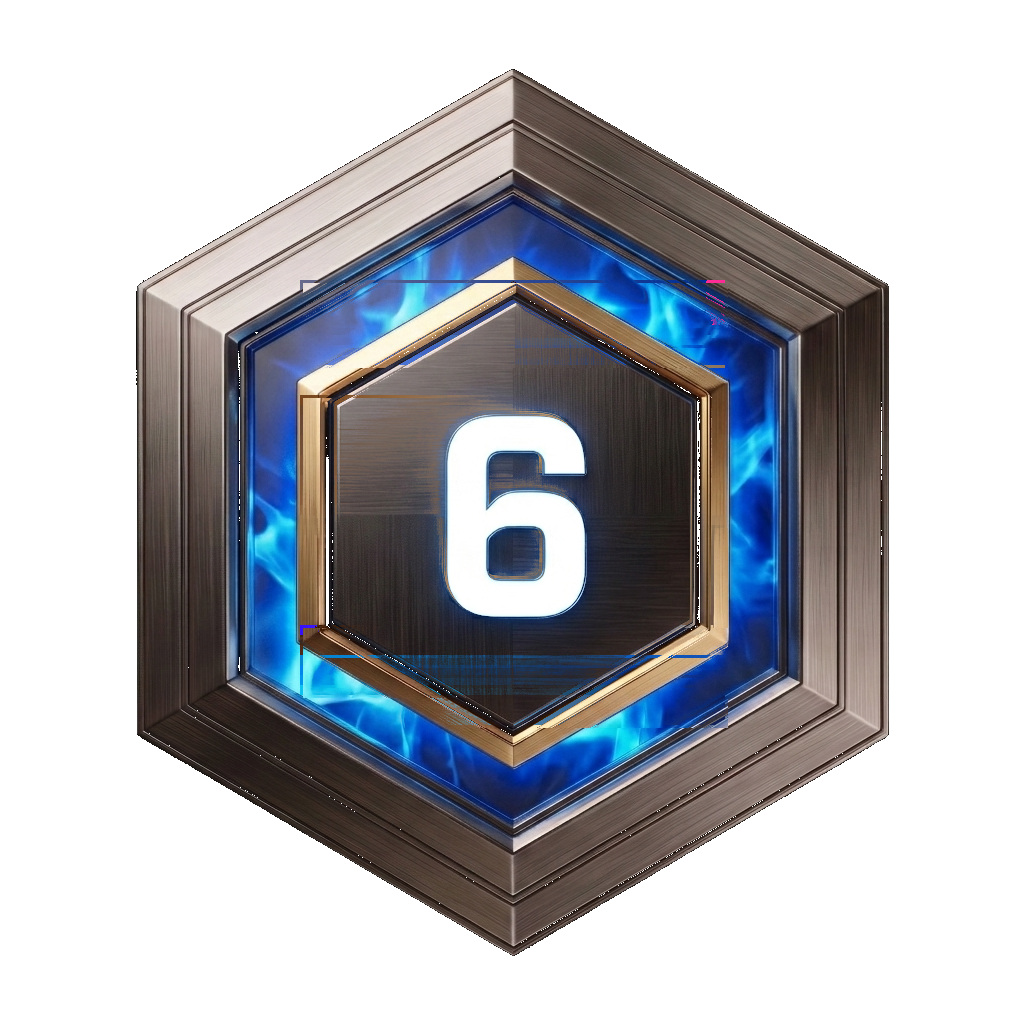
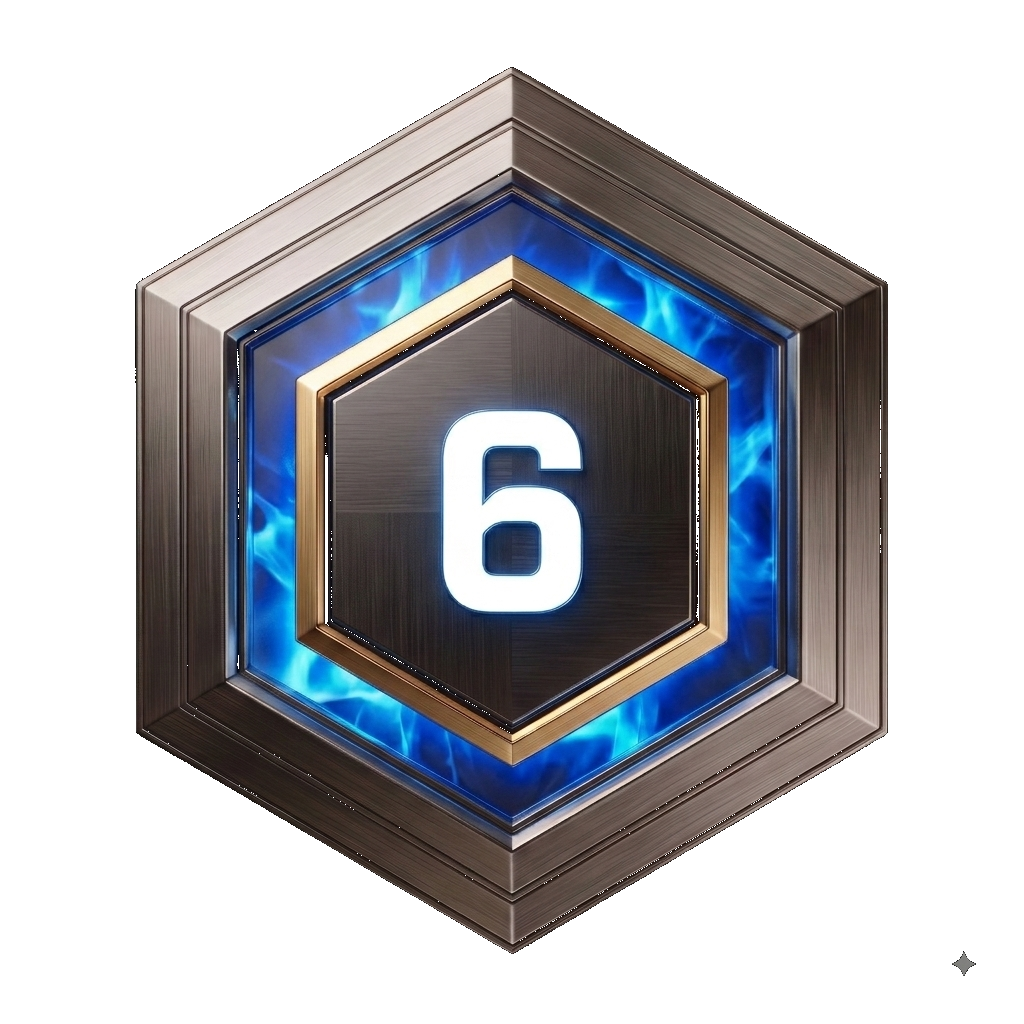
v2.5.45 : Restored exact original 3D Solar Fire Wisps particle engine and badges from fc_demo.html

diff --git a/main.js b/main.js
@@ -198,7 +198,7 @@ window.getFurnaceIconHtml = (level, size = 48) => {
      const canvasOffset = Math.round((canvasSize - size) / 2);
      return `<span class="fc-badge-stage" data-fc="${fcNum}" style="display:inline-flex; align-items:center; justify-content:center; position:relative; vertical-align:middle; cursor:pointer; width:${size}px; height:${size}px; user-select:none; -webkit-user-select:none;">
        <canvas class="fc-flame-canvas" width="${canvasSize}" height="${canvasSize}" style="position:absolute; top:-${canvasOffset}px; left:-${canvasOffset}px; width:${canvasSize}px; height:${canvasSize}px; pointer-events:none; z-index:3;"></canvas>
-       <img src="./badges/fc${fcNum}.png?v=2.5.43" onerror="this.onerror=null; this.src='/badges/fc${fcNum}.png?v=2.5.43';" alt="Fire Crystal ${fcNum}" title="Fire Crystal ${fcNum} (FC ${fcNum})" style="width:${size}px; height:${size}px; object-fit:contain; filter:drop-shadow(0 0 ${Math.max(6, Math.round(size/3.5))}px ${glow}); vertical-align:middle; transition:transform 0.25s cubic-bezier(0.175, 0.885, 0.32, 1.275); position:relative; z-index:2;" loading="lazy">
+       <img src="./badges/fc${fcNum}.png?v=2.5.45" onerror="this.onerror=null; this.src='/badges/fc${fcNum}.png?v=2.5.45';" alt="Fire Crystal ${fcNum}" title="Fire Crystal ${fcNum} (FC ${fcNum})" style="width:${size}px; height:${size}px; object-fit:contain; filter:drop-shadow(0 0 ${Math.max(6, Math.round(size/3.5))}px ${glow}); vertical-align:middle; transition:transform 0.25s cubic-bezier(0.175, 0.885, 0.32, 1.275); position:relative; z-index:2;" loading="lazy">
      </span>`;
   }
 
@@ -21370,51 +21370,49 @@ window.closeMobileNavModal = () => {
   };
 
   class FlameWisp {
-    constructor(cx, cy, radius, colors) {
-      // Spawn evenly along the perimeter of the crystal shield
-      const angle = Math.random() * Math.PI * 2;
-      const dist = (radius * 0.68) + (Math.random() * radius * 0.12);
-      this.x = cx + Math.cos(angle) * dist;
-      this.y = cy + Math.sin(angle) * dist;
+    constructor(cx, cy, w, h, colors) {
+      const scale = w / 280;
+      this.x = cx + (Math.random() - 0.5) * 100 * scale;
+      this.y = cy + (Math.random() - 0.5) * 50 * scale + (30 * scale);
+      this.vx = (Math.random() - 0.5) * 1.6 * scale;
+      this.vy = (-Math.random() * 3.2 - 1.4) * scale;
       
-      // Radial outward momentum in all 360 degrees
-      const speed = (radius * 0.016) * (0.7 + Math.random() * 0.6);
-      this.vx = Math.cos(angle) * speed;
-      this.vy = Math.sin(angle) * speed;
+      this.size = (Math.random() * 11 + 5) * scale;
+      this.alpha = 1.0;
+      this.decay = Math.random() * 0.025 + 0.012;
+      this.waveSpeed = Math.random() * 0.1 + 0.05;
+      this.waveAngle = Math.random() * Math.PI * 2;
       
-      this.size = Math.random() * (radius * 0.07) + (radius * 0.035);
-      this.maxSize = this.size * 1.5;
-      this.alpha = 0.95;
-      this.decay = Math.random() * 0.022 + 0.012;
       this.colors = colors;
     }
 
     update() {
-      this.x += this.vx;
+      this.waveAngle += this.waveSpeed;
+      this.x += this.vx + Math.sin(this.waveAngle) * 0.7;
       this.y += this.vy;
-      this.size = Math.min(this.maxSize, this.size * 1.02);
+      this.size *= 0.96;
       this.alpha -= this.decay;
     }
 
     draw(ctx) {
-      if (this.alpha <= 0 || this.size <= 0.5) return;
+      if (this.alpha <= 0 || this.size <= 1) return;
+
       ctx.save();
-      ctx.globalCompositeOperation = 'lighter';
       ctx.globalAlpha = Math.max(0, this.alpha);
       
-      // Outer radiant glow
       ctx.beginPath();
-      ctx.shadowBlur = 10;
+      ctx.shadowBlur = 12;
       ctx.shadowColor = this.colors.glow;
+      
       ctx.fillStyle = this.colors.outer;
-      ctx.arc(this.x, this.y, this.size, 0, Math.PI * 2);
+      ctx.ellipse(this.x, this.y, this.size * 0.6, this.size * 1.2, Math.sin(this.waveAngle) * 0.3, 0, Math.PI * 2);
       ctx.fill();
-
-      // Hot core
+      
       ctx.beginPath();
       ctx.fillStyle = this.colors.core;
-      ctx.arc(this.x, this.y, this.size * 0.45, 0, Math.PI * 2);
+      ctx.ellipse(this.x, this.y + 2, this.size * 0.3, this.size * 0.6, 0, 0, Math.PI * 2);
       ctx.fill();
+      
       ctx.restore();
     }
   }
@@ -21435,7 +21433,6 @@ window.closeMobileNavModal = () => {
     const h = canvas.height;
     const cx = w / 2;
     const cy = h / 2;
-    const radius = w / 2;
 
     let wisps = [];
     let isActive = false;
@@ -21445,16 +21442,15 @@ window.closeMobileNavModal = () => {
       ctx.clearRect(0, 0, w, h);
 
       if (isActive) {
-        // Continuous, balanced omnidirectional particle stream
-        for (let i = 0; i < 2; i++) {
-          wisps.push(new FlameWisp(cx, cy, radius, colors));
+        if (Math.random() < 0.65) {
+          wisps.push(new FlameWisp(cx, cy, w, h, colors));
         }
       }
 
       for (let i = wisps.length - 1; i >= 0; i--) {
         wisps[i].update();
         wisps[i].draw(ctx);
-        if (wisps[i].alpha <= 0 || wisps[i].size <= 0.5) {
+        if (wisps[i].alpha <= 0 || wisps[i].size <= 1) {
           wisps.splice(i, 1);
         }
       }
@@ -21524,8 +21520,8 @@ window.closeMobileNavModal = () => {
           if (img && isActive) img.style.transform = 'perspective(600px) rotateX(8deg) scale(1.12)';
         }, 140);
       }
-      for (let i = 0; i < 20; i++) {
-        wisps.push(new FlameWisp(cx, cy, radius, colors));
+      for (let i = 0; i < 12; i++) {
+        wisps.push(new FlameWisp(cx, cy, w, h, colors));
       }
       if (roarTimeout) clearTimeout(roarTimeout);
       roarTimeout = setTimeout(() => {

diff --git a/index.html b/index.html
@@ -38,7 +38,7 @@
               👁 <span id="views-counter">...</span>
             </span>
             <span id="versionBadge" title="Click to view Changelog" style="background: rgba(168, 85, 247, 0.2); color: #a855f7; padding: 2px 6px; border-radius: 10px; font-weight: bold; display:flex; align-items:center; gap:4px; cursor:pointer;">
-              v2.5.44
+              v2.5.45
             </span>
             <span id="navbar-user-indicator" onclick="if(window.views && window.views.account) window.views.account();" title="Click to open Chief Profile" style="display:none; background: rgba(59, 130, 246, 0.18); border: 1px solid rgba(59, 130, 246, 0.4); color: #60a5fa; padding: 2px 8px; border-radius: 10px; font-weight: bold; align-items:center; gap:4px; max-width: 150px; white-space: nowrap; overflow: hidden; text-overflow: ellipsis; cursor: pointer;">
             </span>

diff --git a/CHANGELOG.md b/CHANGELOG.md
@@ -1,5 +1,9 @@
 # CHANGELOG
 
+## [2.5.45] - 2026-08-14
+- Restored original pristine Fire Crystal badge graphics directly from `fc_demo.html`.
+- Restored the authentic 3D Solar Fire Wisps particle physics, sinusoidal wave motion, and haptic burst mechanics exactly as designed in `fc_demo.html`.
+
 ## [2.5.44] - 2026-08-14
 - Upgraded the Fire Crystal interactive flame particle engine to generate continuous 360° omnidirectional radial plasma embers spanning all 6 facets of the shield evenly without vertical or horizontal bias.
 

diff --git a/public/CHANGELOG.md b/public/CHANGELOG.md
@@ -1,5 +1,9 @@
 # CHANGELOG
 
+## [2.5.45] - 2026-08-14
+- Restored original pristine Fire Crystal badge graphics directly from `fc_demo.html`.
+- Restored the authentic 3D Solar Fire Wisps particle physics, sinusoidal wave motion, and haptic burst mechanics exactly as designed in `fc_demo.html`.
+
 ## [2.5.44] - 2026-08-14
 - Upgraded the Fire Crystal interactive flame particle engine to generate continuous 360° omnidirectional radial plasma embers spanning all 6 facets of the shield evenly without vertical or horizontal bias.
 
